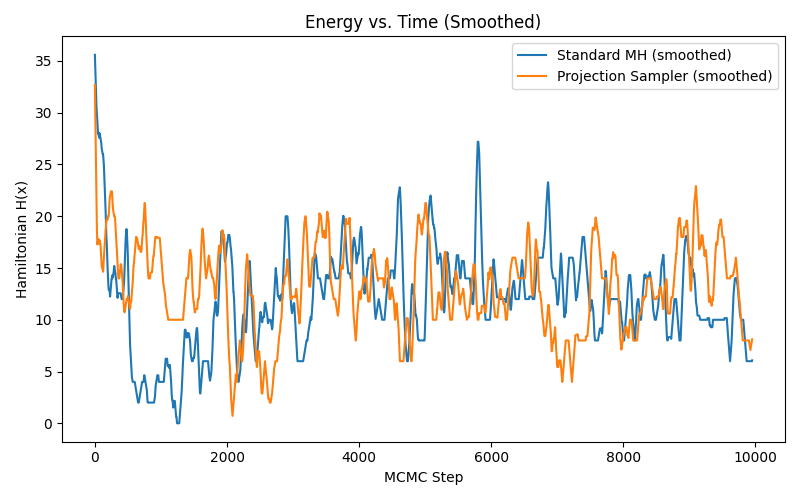
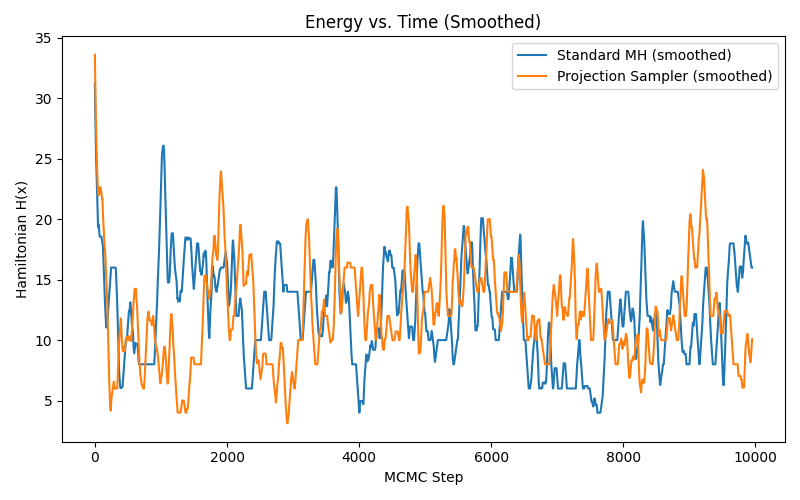
Ising model on the line

diff --git a/isingmodel_line/isingmodel.py b/isingmodel_line/isingmodel.py
@@ -34,20 +34,18 @@ def Q_permutation(x):
 
 def metropolis_step_modified(x):
     """
-    One step of the projection sampler P(Q) = 1/2 (P + Q P Q).
-    This is simulated by choosing a random permutation sigma in {identity, Q}
-    and then:
-       y' ~ P(sigma(x))
-       return sigma(y')
+    Projection sampler P(Q) = 1/2 (P + Q P Q).
+    We implement by setting:
+       y1 = P(x)
+       y2 = Q(P(Q(x)))
+    and then choose between y1 and y2 with equal probability.
     """
+    y1 = metropolis_step(x)
+    y2 = Q_permutation(metropolis_step(Q_permutation(x)))
     if np.random.rand() < 0.5:
-        sigma = lambda z: z
+        return y1
     else:
-        sigma = Q_permutation
-    x_perm = sigma(x)
-    y_prime = metropolis_step(x_perm)
-    y_new = sigma(y_prime)
-    return y_new
+        return y2
 
 def magnetization(x):
     """Compute the magnetization (average spin) of state x."""
